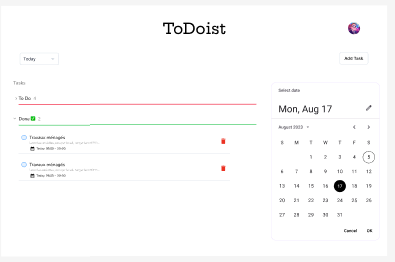
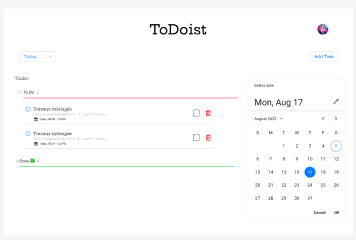
frontend completed, except the responsive

diff --git a/src/app/pages/home-page/home-page.component.html b/src/app/pages/home-page/home-page.component.html
@@ -74,7 +74,7 @@
     </aside>
 
     <aside
-      class="w-1/3 flex justify-center items-center h-[26.5rem]"
+      class="w-1/3 flex justify-center items-center h-[25rem]"
     >
       <app-date-picker></app-date-picker>
     </aside>

diff --git a/src/app/components/header-layout/header-layout.component.html b/src/app/components/header-layout/header-layout.component.html
@@ -1,5 +1,5 @@
 <div
-  class="w-full flex p-4 h-24"
+  class="w-full flex p-4 h-28 items-center"
 >
   <span
     class="font-semibold text-5xl text-black w-full flex justify-center"

diff --git a/README.md b/README.md
@@ -1,9 +1,60 @@
 # ToDoist
 
 ### Design: 
-![img_3.png](img_3.png)
 ![img_2.png](img_2.png)
+![img_3.png](img_3.png) ![img_4.png](img_4.png)
 
+
+
+## Develop and design by:  ```Victoire Youngui```
+
+### Description
+Exercice Stagiaire développeur
+full Stack
+TODO-LIST
+─
+<br/>
+**I. Description**
+Une application web permettant aux utilisateurs de créer, gérer et suivre leurs
+tâches quotidiennes. Les utilisateurs doivent pouvoir ajouter, modifier, marquer
+comme terminées et supprimer des tâches. L'application doit également permettre
+de catégoriser les tâches et de définir des dates d'échéance.
+II. Fonctionnalités à implémenter :
+Ajout de tâches: Les utilisateurs doivent pouvoir ajouter des tâches avec des
+informations telles que le titre, la description, la catégorie et la date d'échéance
+(optionnelle).
+Modification de tâches: Les utilisateurs doivent pouvoir modifier les informations
+d'une tâche existante.
+Marquage comme terminée: Les utilisateurs doivent pouvoir marquer une tâche
+comme terminée.
+Suppression de tâches: Les utilisateurs doivent pouvoir supprimer une tâche.
+Catégorisation: Les utilisateurs doivent pouvoir assigner une catégorie à chaque
+tâche (par exemple : Travail, Personnel, Études).
+Filtrage et tri: Les utilisateurs doivent pouvoir filtrer les tâches par catégorie et les
+trier par date d'échéance ou par ordre alphabétique.
+Interface utilisateur responsive: L'application doit s'adapter à différentes tailles
+d'écran (ordinateur, tablette, téléphone).
+Stockage des données: Les données doivent être stockées localement dans le
+navigateur (par exemple en utilisant LocalStorage) ou sur un serveur si vous le
+souhaitez.
+Bonus: Implémentation de fonctionnalités supplémentaires telles que :
+➔ Rappels pour les tâches avec date d'échéance.
+➔ Possibilité de partager des listes de tâches avec d'autres utilisateurs.
+➔ Utilisation d'un framework JavaScript moderne (React, Angular ou Vue.js)
+ou d'une bibliothèque de composants (comme Material-UI ou Bootstrap)
+pour le front-end.
+➔ Mise en place d'une API RESTful avec Node.js et Express.js pour le
+back-end.
+➔ Utilisation d'une base de données (MongoDB ou PostgreSQL).
+➔ Implémentation de l'authentification (JWT recommandé).
+III. Critères d'évaluation :
+➔ Respect des spécifications
+➔ Qualité du code (lisibilité, modularité, commentaires)
+➔ Respect des bonnes pratiques (DRY, SOLID, KISS, Clean Code, ...)
+➔ Gestion des erreurs
+➔ Fonctionnalités bonus implémentées
+➔ Utilisation d'un framework ou d'une bibliothèque (bonus)
+➔ Design et expérience utilisateur
 
 This project was generated with [Angular CLI](https://github.com/angular/angular-cli) version 18.0.3.
 
